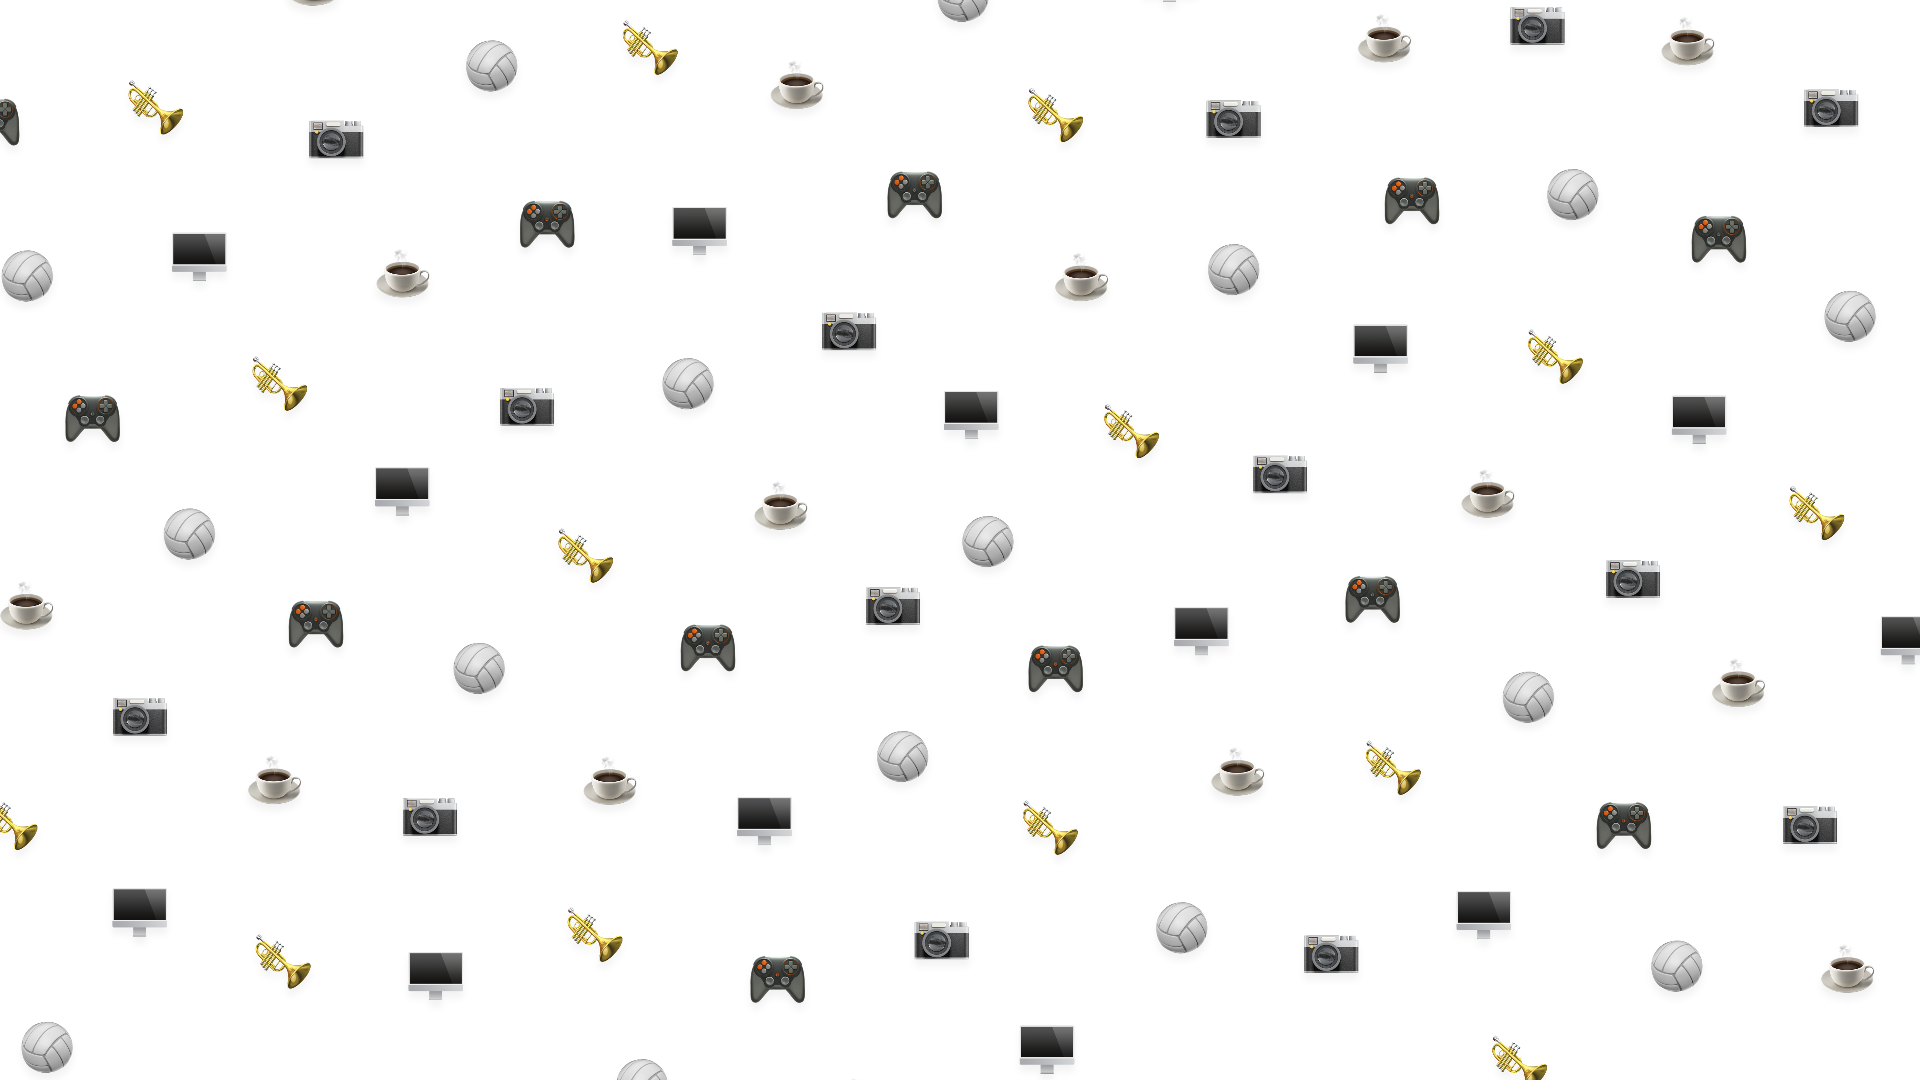
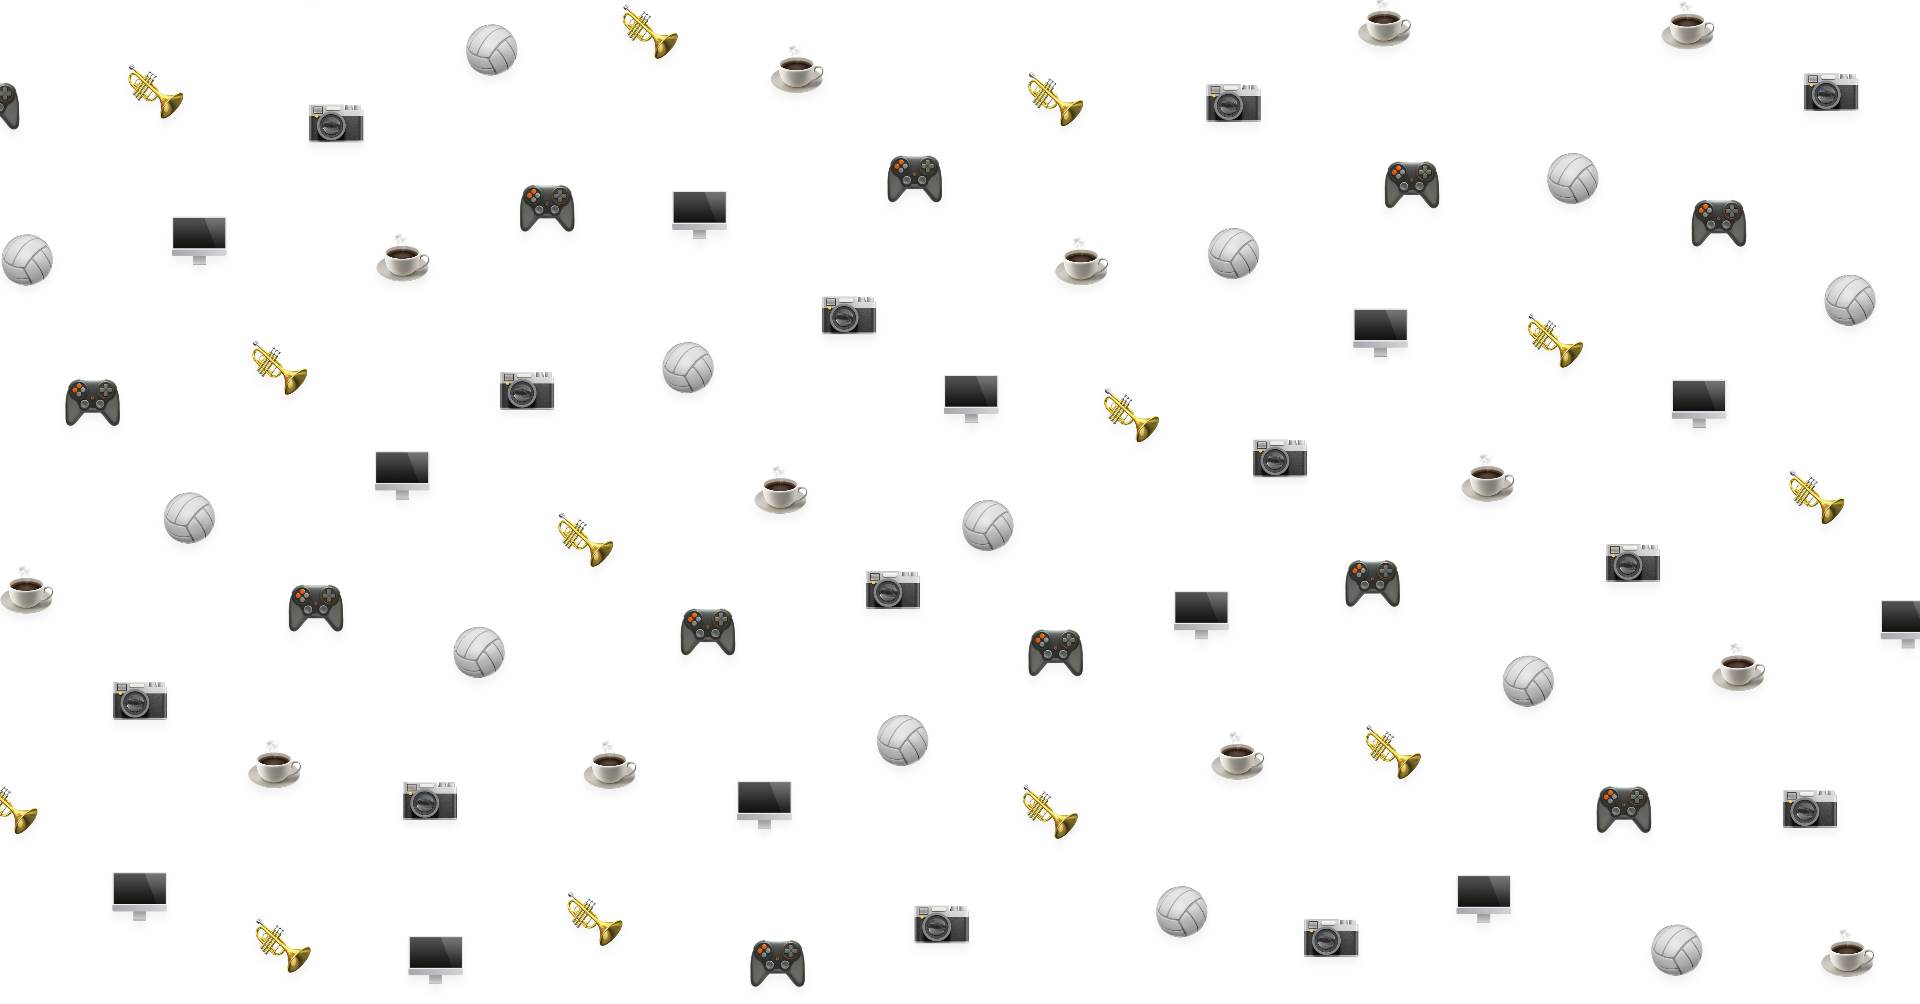
fix: Scroll to follow actual screen size

diff --git a/app/components/about.js b/app/components/about.js
@@ -1,29 +1,33 @@
 'use client'
 import { motion, useScroll, useTransform } from "framer-motion";
-import Image from 'next/image';
+import { useRef } from 'react';
 
 export default function About() {
 
     // Scroll Animation
-    const { scrollY } = useScroll(); // Track the scroll position
-    const opacity = useTransform(scrollY, [650, 1100, 1400], [0, 0.2, 0]); // Map scroll to opacity
-    
-
-    scrollY.onChange((latest) => {
-        console.log('Scroll value:', latest);
+    const targetRef = useRef(null);
+    const { scrollYProgress } = useScroll({
+        target: targetRef,
+        offset: ["start end", "end start"], // Starts when section enters view and ends when it exits
     });
 
+    // Adjust opacity transformations within the bounds of the section
+    const opacity = useTransform(scrollYProgress, [0.4, 0.5, 0.7], [0, 0.3, 0]);
+    const fadeOut = useTransform(scrollYProgress, [0.6, 0.7], [1, 0]);
+
     return (
-        <div id="about" className="aboutContainer">
+        <div id="about" ref={targetRef}  className="aboutContainer">
             <motion.div style={{ opacity }}>
-                <img src="/wallpaper.png" className="h-dvh w-full object-cover" alt="Emoji Background"/>
+                <img src="/wallpaper.png" className="h-screen w-full object-cover" alt="Emoji Background"/>
             </motion.div>
-            <div className="h-dvh flex flex-col items-left justify-center content mx-10">
+            <motion.div className="h-screen flex flex-col items-left justify-center content mx-10" style={{ opacity: fadeOut }}>
                 <div className="font-bold text-5xl lg:text-8xl text-center sm:text-left">About Me!</div>
-                <div className="text-lg lg:text-xl lg:mr-96 my-4 text-center sm:text-left" style={{fontFamily:'League Spartan, sans-serif', fontWeight: '550'}}>Hi! I’m Kai Sheng, a second-year Software Engineering student at SMU.
+                <div className="text-lg lg:text-xl lg:mr-96 my-4 text-center sm:text-left" style={{fontFamily:'League Spartan, sans-serif', fontWeight: '550'}}>
+                    Hi! I’m Kai Sheng, a second-year Software Engineering student at SMU.
                     I’m passionate about exploring new languages and frameworks through hands-on projects, which I find to be the best way to learn. Outside of tech,
-                    I enjoy capturing moments with my film camera and playing volleyball—both give me a great balance between creativity and staying active.</div>
-            </div>
+                    I enjoy capturing moments with my film camera and playing volleyball—both give me a great balance between creativity and staying active.
+                </div>
+            </motion.div>
         </div>
     );
 }

diff --git a/app/components/projects.js b/app/components/projects.js
@@ -4,7 +4,7 @@
 export default function About() {
 
     return (
-        <div id="projects" className="h-dvh w-full flex flex-col items-left sm:justify-center ">
+        <div id="projects" className="h-screen w-full flex flex-col items-left sm:justify-center ">
             <div className="font-bold text-8xl text-center">Projects</div>
             <div className="text-lg mr-96 my-4">Hi! I’m Kai Sheng, a second-year Software Engineering student at SMU. 
                 I’m passionate about exploring new languages and frameworks through hands-on projects, which I find to be the best way to learn. Outside of tech,

diff --git a/app/components/main.js b/app/components/main.js
@@ -40,7 +40,7 @@ export default function Main() {
               }
             },
           }}>
-        <div className="flex flex-wrap-reverse sm:flex-nowrap sm:items-center justify-center mt-10">
+        <div className="flex flex-wrap-reverse sm:flex-nowrap sm:items-center justify-center mt-20 sm:mt-10">
             {/* Intro Text */}
             <div className="m-4 sm:ml-10 lg:ml-22">
                 <div className='text-xl -mb-1'>Hi. I&apos;m</div>

diff --git a/app/globals.css b/app/globals.css
@@ -22,7 +22,6 @@ body {
 nav {
   position: relative;
   z-index: 2;
-  background-color: #ddddddd2;
 }
 
 #navPointer {
